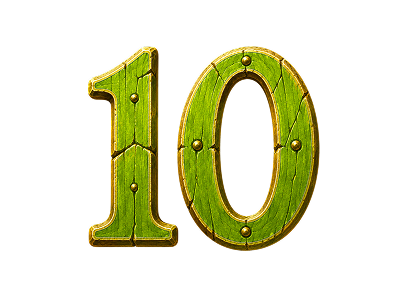
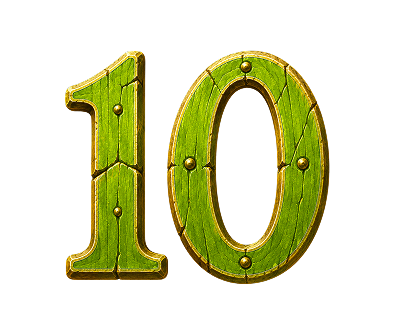
updates on UI - board and symbols
FIX - sizing of the board and the symbols + two symbols changed with new ones

Changed region(s): [[0.1523, 0.15, 0.8528, 0.87]]

diff --git a/apps/forest-gang/src/game/assets.ts b/apps/forest-gang/src/game/assets.ts
@@ -33,7 +33,7 @@ export default {
 	},
 	slotPad: {
 		type: 'sprite',
-		src: './assets/components/frames/slot_pad.png?v=20260625',
+		src: './assets/components/frames/slot_pad.png?v=20260629',
 		preload: true,
 	},
 	symbolPad: {
@@ -66,14 +66,14 @@ export default {
 		src: './assets/components/ui/scatter-panel-image.png?v=20260611',
 		preload: true,
 	},
-	aTile: { type: 'sprite', src: './assets/components/symbols/card_a.png?v=20260626', preload: true },
-	aWinTile: { type: 'sprite', src: './assets/components/symbols/card_a_win.png?v=20260626', preload: true },
-	kTile: { type: 'sprite', src: './assets/components/symbols/card_k.png?v=20260626', preload: true },
-	kWinTile: { type: 'sprite', src: './assets/components/symbols/card_k_win.png?v=20260626', preload: true },
-	qTile: { type: 'sprite', src: './assets/components/symbols/card_q.png?v=20260626', preload: true },
-	qWinTile: { type: 'sprite', src: './assets/components/symbols/card_q_win.png?v=20260626', preload: true },
-	jTile: { type: 'sprite', src: './assets/components/symbols/card_j.png?v=20260626', preload: true },
-	jWinTile: { type: 'sprite', src: './assets/components/symbols/card_j_win.png?v=20260625', preload: true },
+	aTile: { type: 'sprite', src: './assets/components/symbols/card_a.png?v=20260630b', preload: true },
+	aWinTile: { type: 'sprite', src: './assets/components/symbols/card_a_win.png?v=20260630b', preload: true },
+	kTile: { type: 'sprite', src: './assets/components/symbols/card_k.png?v=20260630b', preload: true },
+	kWinTile: { type: 'sprite', src: './assets/components/symbols/card_k_win.png?v=20260630b', preload: true },
+	qTile: { type: 'sprite', src: './assets/components/symbols/card_q.png?v=20260630b', preload: true },
+	qWinTile: { type: 'sprite', src: './assets/components/symbols/card_q_win.png?v=20260630b', preload: true },
+	jTile: { type: 'sprite', src: './assets/components/symbols/card_j.png?v=20260630b', preload: true },
+	jWinTile: { type: 'sprite', src: './assets/components/symbols/card_j_win.png?v=20260630b', preload: true },
 	squirrelJAnim: {
 		type: 'spine',
 		src: {
@@ -97,17 +97,17 @@ export default {
 		src: './assets/new_assets/slots_replacement/standard_expanded/rabbit_10_anim/rabbit_10_anim_sheet.json',
 		preload: true,
 	},
-	tTile: { type: 'sprite', src: './assets/components/symbols/card_t.png?v=20260626', preload: true },
-	tWinTile: { type: 'sprite', src: './assets/components/symbols/card_t_win.png?v=20260626', preload: true },
-	wildTile: { type: 'sprite', src: './assets/components/symbols/wild.png?v=20260625', preload: true },
-	wildWinTile: { type: 'sprite', src: './assets/components/symbols/wild_win.png?v=20260625', preload: true },
-	scatterCustom: { type: 'sprite', src: './assets/components/symbols/scatter.png?v=20260625', preload: true },
-	scatterWin: { type: 'sprite', src: './assets/components/symbols/scatter_win.png?v=20260625', preload: true },
-	foxTile:      { type: 'sprite', src: './assets/components/symbols/fox.png?v=20260626', preload: true },
-	wolfTile:     { type: 'sprite', src: './assets/components/symbols/wolf.png?v=20260626', preload: true },
-	bearTile:     { type: 'sprite', src: './assets/components/symbols/bear.png?v=20260626', preload: true },
-	rabbitTile:   { type: 'sprite', src: './assets/components/symbols/rabbit.png?v=20260626', preload: true },
-	squirrelTile: { type: 'sprite', src: './assets/components/symbols/squirrel.png?v=20260626', preload: true },
+	tTile: { type: 'sprite', src: './assets/components/symbols/card_t.png?v=20260630b', preload: true },
+	tWinTile: { type: 'sprite', src: './assets/components/symbols/card_t_win.png?v=20260630b', preload: true },
+	wildTile: { type: 'sprite', src: './assets/components/symbols/wild.png?v=20260630c', preload: true },
+	wildWinTile: { type: 'sprite', src: './assets/components/symbols/wild.png?v=20260630c', preload: true },
+	scatterCustom: { type: 'sprite', src: './assets/components/symbols/scatter.png?v=20260630c', preload: true },
+	scatterWin: { type: 'sprite', src: './assets/components/symbols/scatter.png?v=20260630c', preload: true },
+	foxTile:      { type: 'sprite', src: './assets/components/symbols/fox.png?v=20260630b', preload: true },
+	wolfTile:     { type: 'sprite', src: './assets/components/symbols/wolf.png?v=20260630b', preload: true },
+	bearTile:     { type: 'sprite', src: './assets/components/symbols/bear.png?v=20260630b', preload: true },
+	rabbitTile:   { type: 'sprite', src: './assets/components/symbols/rabbit.png?v=20260630b', preload: true },
+	squirrelTile: { type: 'sprite', src: './assets/components/symbols/squirrel.png?v=20260630b', preload: true },
 	foxBonusTile: { type: 'sprite', src: './assets/components/symbols/fox_bonus.png?v=20260625', preload: true },
 	foxWinTile: { type: 'sprite', src: './assets/components/symbols/fox_win.png?v=20260626', preload: true },
 	wolfBonusTile: { type: 'sprite', src: './assets/components/symbols/wolf_bonus.png?v=20260625', preload: true },
@@ -128,22 +128,22 @@ export default {
 	jWinExpTile: { type: 'sprite', src: './assets/components/symbols/card_j_expand_win.png?v=20260625', preload: true },
 	tExpTile: { type: 'sprite', src: './assets/components/symbols/card_t_bonus.png?v=20260625', preload: true },
 	tWinExpTile: { type: 'sprite', src: './assets/components/symbols/card_t_expand_win.png?v=20260625', preload: true },
-	foxExpTile: { type: 'sprite', src: './assets/components/symbols/fox_expand.png?v=20260625', preload: true },
+	foxExpTile: { type: 'sprite', src: './assets/components/symbols/fox_expand.png?v=20260629', preload: true },
 	foxExpWinTile: { type: 'sprite', src: './assets/components/symbols/fox_expand_win.png?v=20260625', preload: true },
-	wolfExpTile: { type: 'sprite', src: './assets/components/symbols/wolf_expand.png?v=20260625', preload: true },
+	wolfExpTile: { type: 'sprite', src: './assets/components/symbols/wolf_expand.png?v=20260629', preload: true },
 	wolfExpWinTile: { type: 'sprite', src: './assets/components/symbols/wolf_expand_win.png?v=20260625', preload: true },
-	bearExpTile: { type: 'sprite', src: './assets/components/symbols/bear_expand.png?v=20260625', preload: true },
+	bearExpTile: { type: 'sprite', src: './assets/components/symbols/bear_expand.png?v=20260629', preload: true },
 	bearExpWinTile: { type: 'sprite', src: './assets/components/symbols/bear_expand_win.png?v=20260625', preload: true },
-	rabbitExpTile: { type: 'sprite', src: './assets/components/symbols/rabbit_expand.png?v=20260625', preload: true },
+	rabbitExpTile: { type: 'sprite', src: './assets/components/symbols/rabbit_expand.png?v=20260629', preload: true },
 	rabbitExpWinTile: { type: 'sprite', src: './assets/components/symbols/rabbit_expand_win.png?v=20260625', preload: true },
-	squirrelExpTile: { type: 'sprite', src: './assets/components/symbols/squirrel_expand.png?v=20260625', preload: true },
+	squirrelExpTile: { type: 'sprite', src: './assets/components/symbols/squirrel_expand.png?v=20260629', preload: true },
 	squirrelExpWinTile: { type: 'sprite', src: './assets/components/symbols/squirrel_expand_win.png?v=20260625', preload: true },
 	// Win boards — preloaded so board escalation during count-up doesn't stall
 	sweetWinBoard:     { type: 'sprite', src: './assets/components/win_boards/sweet_win.png?v=20260625', preload: true },
 	wildWinBoard:      { type: 'sprite', src: './assets/components/win_boards/big_win.png?v=20260625', preload: true },
 	epicWinBoard:      { type: 'sprite', src: './assets/components/win_boards/epic_win.png?v=20260625', preload: true },
 	mythicWinBoard:    { type: 'sprite', src: './assets/components/win_boards/mega_win.png?v=20260625', preload: true },
-	legendaryWinBoard: { type: 'sprite', src: './assets/components/win_boards/max_win.png?v=20260625', preload: true },
+	legendaryWinBoard: { type: 'sprite', src: './assets/components/win_boards/max_win.png?v=20260629', preload: true },
 	pressToContinueText: {
 		type: 'sprites',
 		src: './assets/sprites/pressToContinueText/MM_pressanywhere.json?v=20260611',

diff --git a/apps/forest-gang/src/components/BoardFrame.svelte b/apps/forest-gang/src/components/BoardFrame.svelte
@@ -6,20 +6,21 @@
 	const context = getContext();
 	const board = $derived(context.stateGameDerived.boardLayout());
 
-	// slot_pad.png is 3616×2528. Measured geometry of the inner brown panel
-	// (where the reels sit): centred at ~(0.50, 0.46) of the image, ~57% of the
-	// image width. We scale the whole frame so the inner panel ≈ board + margin,
-	// then anchor it at the inner-panel centre over the board centre.
-	const FRAME_ASPECT = 3616 / 2528;
-	const INNER_W_FRAC = 0.64; // inner brown panel ≈ 64% of the image width
-	const ANCHOR_X = 0.5;
-	const ANCHOR_Y = 0.45; // inner panel centre sits slightly above image centre
-	const MARGIN = 1.04; // inner panel a touch larger than the board grid
-	// Frame scales to 130% while grid scales to 115% — extra factor covers the difference
+	// slot_pad.png is 3220×2364. Geometry of the inner brown panel (where the reels
+	// sit): inner panel ≈ 76% of image width, centred at ~(0.52, 0.50). We scale the
+	// frame so the inner panel ≈ board grid + margin, then anchor it over the grid.
+	const FRAME_ASPECT = 3220 / 2364;
+	const INNER_W_FRAC = 0.762;
+	const ANCHOR_X = 0.505; // = slot_pad window centre x (grid centred horizontally)
+	const ANCHOR_Y = 0.489; // reference only (Sprite top-anchored); see stateGame _FRAME_ANCHOR_Y
+	const MARGIN = 1.04;
 	const FRAME_EXTRA_SCALE = 1.30 / 1.15;
+	// Draw the frame slightly narrower (height unchanged) so the bamboo poles sit
+	// closer to the reels — reduces the left/right margin without touching top/bottom.
+	const H_SQUASH = 0.93;
 
-	const frameW = $derived((board.width * board.boardScale * MARGIN * FRAME_EXTRA_SCALE) / INNER_W_FRAC);
-	const frameH = $derived(frameW / FRAME_ASPECT);
+	const frameH = $derived((board.width * board.boardScale * MARGIN * FRAME_EXTRA_SCALE) / INNER_W_FRAC / FRAME_ASPECT);
+	const frameW = $derived(((board.width * board.boardScale * MARGIN * FRAME_EXTRA_SCALE) / INNER_W_FRAC) * H_SQUASH);
 </script>
 
 <Sprite

diff --git a/apps/forest-gang/src/game/stateGame.svelte.ts b/apps/forest-gang/src/game/stateGame.svelte.ts
@@ -142,6 +142,8 @@ const getBoardOffset = () => {
 	const extraLeftShiftPx = layoutType === 'desktop' ? 75 : layoutType === 'landscape' ? 55 : 0;
 	const centeredCanvasX = padding.left + availableCanvasWidth * 0.5 - canvasSizes.width * 0.5;
 	const centeredCanvasY = padding.top + availableCanvasHeight * 0.5 - canvasSizes.height * 0.5;
+	// extraLeftShiftPx (75) and shiftRightPx cancel → board sits centred in the
+	// padded area. Lower shiftRightPx to nudge the whole board left.
 	const shiftRightPx = 90;
 	const shiftDownPx = 10;
 
@@ -152,11 +154,13 @@ const getBoardOffset = () => {
 };
 
 // Mirror BoardFrame.svelte constants — keep in sync if BoardFrame changes
+// slot_pad.png is 3220×2364 — these MUST match BoardFrame.svelte exactly so the
+// grid is centred inside the drawn frame's inner brown panel.
 const _FRAME_MARGIN = 1.04;
-const _FRAME_INNER_W_FRAC = 0.64;
-const _FRAME_ASPECT_H_W = 2528 / 3616;
-const _FRAME_ANCHOR_Y = 0.45; // inner panel centre sits at 45% of frame height
-const _FRAME_EXTRA_SCALE = 1.35 / 1.15; // frame 130%, grid 115% — must match BoardFrame.svelte
+const _FRAME_INNER_W_FRAC = 0.762;
+const _FRAME_ASPECT_H_W = 2364 / 3220;
+const _FRAME_ANCHOR_Y = 0.489; // = slot_pad window centre y (grid centred vertically)
+const _FRAME_EXTRA_SCALE = 1.30 / 1.15;
 
 const boardLayout = () => {
 	const boardScale = getBoardScale() * 0.81 * 1.15;

diff --git a/apps/forest-gang/src/game/constants.ts b/apps/forest-gang/src/game/constants.ts
@@ -2,9 +2,9 @@ import _ from 'lodash';
 
 import type { RawSymbol, SymbolState } from './types';
 
-// Symbol cells sized so the 5×4 grid fills the wooden frame's ~1.465 inner panel
+// Symbol cells sized so the 5×4 grid fills the wooden frame's inner panel
 export const SYMBOL_W = 121;   // cell width
-export const SYMBOL_H = 103;   // cell height (121/103 ≈ 1.175 → board 1.47)
+export const SYMBOL_H = 103;   // cell height
 export const SYMBOL_SIZE = SYMBOL_H; // kept as alias for height-based calculations
 export const BOARD_GRID_OFFSET_Y = 0;
 export const REEL_PADDING = 0.53;
